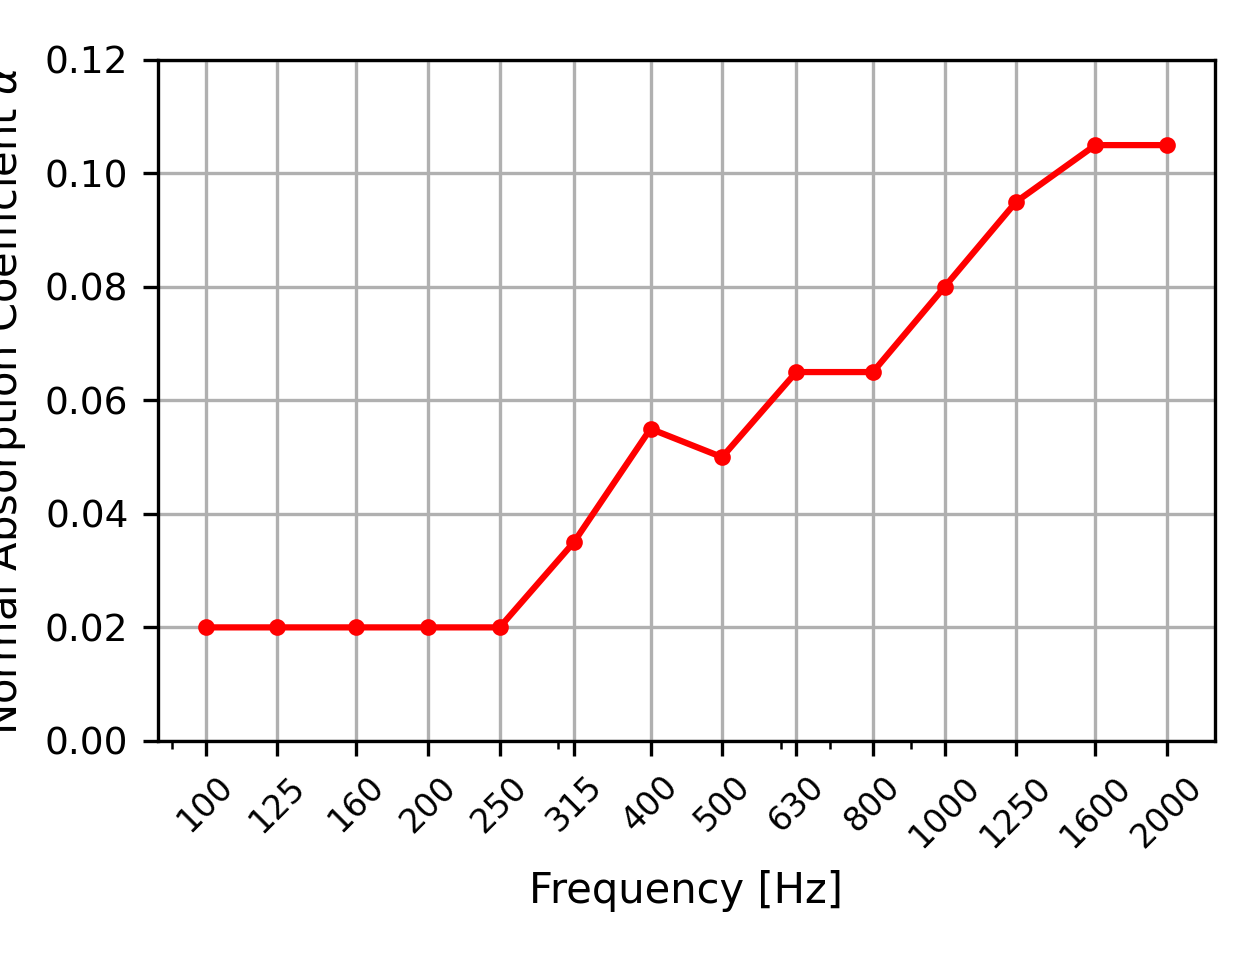
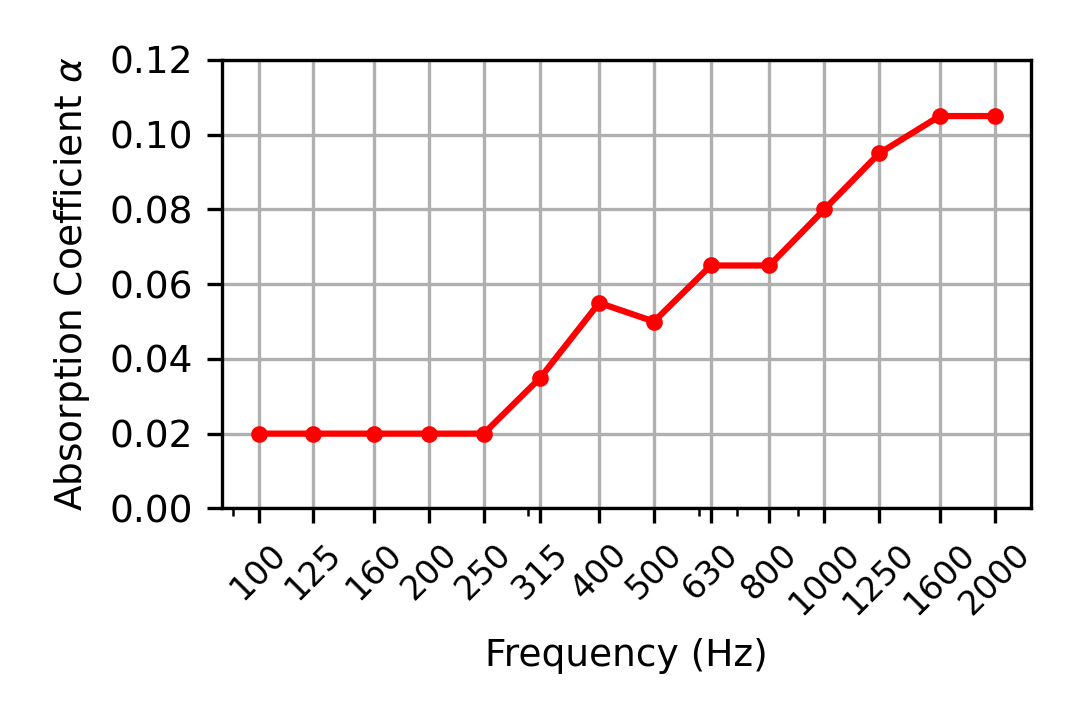
update chapter 4

Changed region(s): [[0.0, 0.0306, 0.9778, 0.9472]]

diff --git a/Chapter4_Finite_Element_Simulation.tex b/Chapter4_Finite_Element_Simulation.tex
@@ -258,13 +258,38 @@ In the initial geometric setup, the contemplated underfloor components in the fi
 For the parametric study, four different variations of underfloor geometry including the initial finite element model as described in \cref{section:geometry} are prepared, which are shown in \cref{fig:variation_underfloor}, ordered by their complexity. Again, the full model of each geometry is shown for a better illustration, whereby the one-fourth model will be used for the simulation. The simplest model (\cref{fig:no_underfloor_components}) contains only the car body shell without any underfloor components, the blue or the green sphere beneath the car floor represents the omnidirectional loudspeaker. In the next more complex model (\cref{fig:no_air_suspension}), the bogie frame and the wheels are contemplated, and differs from the initial geometry (\cref{fig:initial_model}) only by the air suspension, that is why this variation is also named "no air suspension". Finally, the last geometrical model (\cref{fig:additional_structures}) is set up by attaching additional structures to the car floor, which represent the cable ducts beneath the car floor.
 
 \newpage
-\subsection{Inclusion of ground absorption}
+\subsection{Variation of ground surface impedance}
 
-In the finite element formulation, the ground absorption is modeled by the surface impedance boundary condition. The surface impedance is complex valued. The phase information of the surface impedance is lost when converting to absorption coefficient. For most of the time, (in acoustic data bank) only the absorption coefficient is provided but not the full impedance characteristic. To have an idea how the missing phase information of the impedance could affect the results. It assumed that the phase of the surface impedance are 0°, 30°, 45° and 60°.
+In the initial simulation setup, the ground is modeled as a fully reflective surface at which the homogeneous Neunmann (sound hard) boundary condition is applied.
+However, it would also be of interest to investigate the influence of including ground absorption on the simulation result.
+An absorbing surface is characterized by its absorption coefficient $\alpha$, which is frequency dependent in most cases.
+In the finite element formulation, the reflection and absorption of the incident acoustic wave at a surface is described by the surface impedance boundary condition, which can be related to the absorption coefficient of the surface. In the following, the relation between the absorption coefficient $\alpha$ and the surface impedance $Z_s$ is presented following Nedkov \cite{nedkov_impedance_2011}.
 
-In the initial simulation setup, the ground is modeled as a perfect reflecting plane. To have an idea how the unknown 
-
-Due to a missing ground absorption measurement
+The sound absorption coefficient $\alpha$ of a material is defined by the ratio of the absorbed acoustic power $W_{\text{absorbed}}$ and the power of incident wave $W_{\text{incident}}$, which for wave at normal incidence reads as
+\begin{equation}
+	\alpha = \frac{W_{\text{absorbed}}}{W_\text{incident}} = 1 - |R|^2\,, \label{eq:absorption_coefficient}
+\end{equation}
+with $R$ being the complex reflection coefficient, which can be represented as
+\begin{equation}
+	R = \frac{Z_s - Z_0}{Z_s + Z_0} = \frac{\frac{Z_s}{Z_0} - 1}{\frac{Z_s}{Z_0} + 1}\,, \label{eq:reflection_coefficient}
+\end{equation}
+where $Z_0 = \rho_0 c_0$ is the characteristic impedance of the propagation medium and $Z_s$ is the specific acoustic impedance of the absorbing surface.
+The impedance ratio $\frac{Z_s}{Z_0}$ is also called the normalized surface impedance
+\begin{equation}
+	\tilde{Z_s} = \frac{Z_s}{Z_0} = \tilde{R_s} + j\tilde{X_s}\,,
+\end{equation}
+which can be slit into a real part $\tilde{R_s}$ and an imaginary part $\tilde{X_s}$. By inserting \cref{eq:reflection_coefficient} into \cref{eq:absorption_coefficient}, the absorption coefficient $\alpha$ can be related to the complex surface impedance by
+\begin{equation}
+	\alpha = \frac{4\tilde{R_s}}{\tilde{R_s}^2+\tilde{X_s}^2 + 2\tilde{R_s} + 1} \,. \label{eq:absorption_coefficient_2}
+\end{equation}
+In order to uniquely define the surface impedance $\tilde{Z_s}$ of the absorbing surface for a given normal incident absorption coefficient $\alpha$, the phase of the complex surface impedance also has to be known, which is given by
+\begin{equation}
+	 \varphi = \arctan{\frac{\tilde{X_s}}{\tilde{R_s}}}\,. \label{eq:impedance_phase_angle}
+\end{equation}
+The impedance characteristic of a ground surface can be determined for example by an in-situ measurement using impedance tube method \cite{wolkesson_2013,Seybert2008MeasurementOP}.
+For the case that a measurement is not accessible, the absorption data can be retrieved e.g. from a acoustic data bank, which, in most cases, provides only the absorption coefficient spectrum in stead of the complex surface impedance.
+However, it has been shown that also the phase has to be provided to uniquely define the surface impedance for a given absorption coefficient.
+In order to have an idea how the missing information of the impedance phase angle affects the simulation result, surface impedance boundary condition is prescribed at the ground of the finite element model using varying impedance phase angle.
 
 \begin{figure}[H]
 	\centering
@@ -273,55 +298,34 @@ Due to a missing ground absorption measurement
 	\label{fig:ground_absorption}
 \end{figure}
 
+Due to a missing ground absorption measurement, the absorption spectrum from the pavement absorption measurement carried out by Seybert et al. \cite{Seybert2008MeasurementOP} is used, which is shown in \cref{fig:ground_absorption}.
+The values of the absorption coefficients are estimated from the graph and are listed in \cref{tab:absorption_coefficient} since these were not provided in the paper. For frequencies lower than \SI{315}{\hertz}, the absorption coefficient is set to 0.02. The complex normalized surface impedance can then be calculated by solving the system of equations consists of \cref{eq:absorption_coefficient_2} and \cref{eq:impedance_phase_angle}. Thereby, the impedance phase angle $\varphi$ is assumed to be \SI{0}{\degree} (only real part), $\pm$\SI{30}{\degree}, $\pm$\SI{45}{\degree}, and $\pm$\SI{60}{\degree}, respectively. The obtained normalized surface impedance spectra for different impedance phase angles are shown in \cref{fig:input_impedance}.
+
 \begin{table}[H]
-	\caption{Estimated absorption coefficient from fig. \ref{fig:ground_absorption}, the values for frequency lower than 315 Hz are chosen arbitrary}
-	\begin{tabular}{c|ccccccc}
-		Freq (Hz)           & 100  & 125  & 160  & 200  & 250  & 315  & 400 \\ \hline
-		$\alpha$ & 0.02 & 0.02 & 0.02 & 0.02 & 0.02 & 0.035 & 0.055
-	\end{tabular}
-	\newline
-	\vspace*{10pt}
-	\newline
-	\begin{tabular}{c|ccccccc}
-		Freq (Hz)  &  500  & 630  & 800  & 1000 & 1250 & 1600 & 2000 \\ \hline
-		$\alpha$ & 0.05 & 0.065 & 0.065 & 0.08 & 0.095 & 0.105 & 0.105
+	\centering
+	\caption{Estimated absorption coefficient from \cref{fig:ground_absorption}, for frequencies lower than 315 Hz the values are set to 0.02.}
+	\label{tab:absorption_coefficient}
+	\begin{tabular}{cccc}
+		\toprule
+		Frequency (Hz) & $\alpha$ & Frequency (Hz) & $\alpha$ \\
+		\midrule
+		100 & 0.02 & 500 & 0.05 \\
+		125 & 0.02 & 630 & 0.065 \\
+		160 & 0.02 & 800 & 0.065 \\
+		200 & 0.02 & 1000 & 0.08 \\
+		250 & 0.02 & 1250 & 0.095 \\
+		315 & 0.035 & 1600 & 0.105 \\
+		400 & 0.055 & 2000 & 0.105 \\
+		\bottomrule
 	\end{tabular}
 \end{table}
 
-\begin{equation}
-	\alpha = 1 - |R^2|
-\end{equation}
-
-\begin{equation}
-	R = \frac{Z_s - Z_0}{Z_s + Z_0} = \frac{\frac{Z_s}{Z_0} - 1}{\frac{Z_s}{Z_0} + 1}
-\end{equation}
-
-\begin{equation}
-	\tilde{Z_s} = \frac{Z_s}{Z_0} = \tilde{R_s} + j\tilde{X_s}
-\end{equation}
-
-
-
-\begin{equation}
-	\begin{cases}
-		\frac{4\tilde{R_s}}{\tilde{R_s}^2+\tilde{X_s}^2 + 2\tilde{R_s} + 1} = \alpha\\
-		\arctan{\frac{\tilde{X_s}}{\tilde{R_s}}} = \varphi
-	\end{cases}	
-	\label{eq:impedance}
-\end{equation}
-
-
 \begin{figure}[H]
 	\centering
-	\begin{subfigure}[b]{0.8\textwidth}
-		\centering
-		\includegraphics{fig/chap4/impedance/impedance_real.png}
-	\end{subfigure}
-	\begin{subfigure}[b]{0.8\textwidth}
-		\centering
-		\includegraphics{fig/chap4/impedance/impedance_imag.png}
-	\end{subfigure}
-	\caption{Input surface impedance in one-third octave bands calculated using (\ref{eq:impedance})}
+	\includegraphics{fig/chap4/impedance/impedance_real.png}
+	\includegraphics{fig/chap4/impedance/impedance_imag.png}
+	\caption{Real and imaginary part of the surface impedance normalized by $Z_0 = \rho_0 c_0$ calculated by solving \cref{eq:absorption_coefficient_2} and \cref{eq:impedance_phase_angle}.}
+	\label{fig:input_impedance}
 \end{figure}
 
 \newpage
